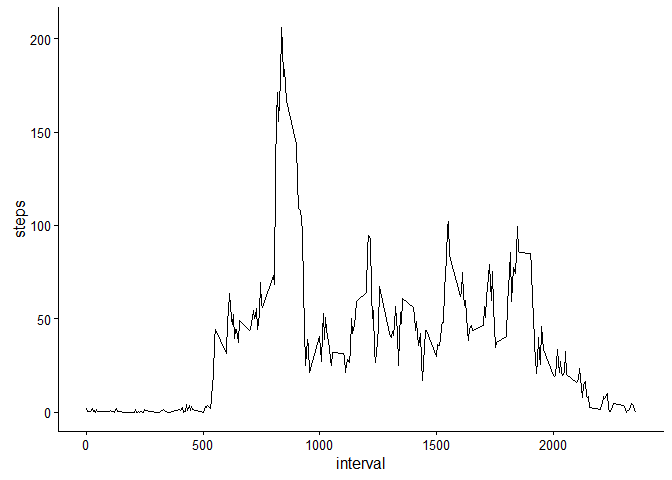
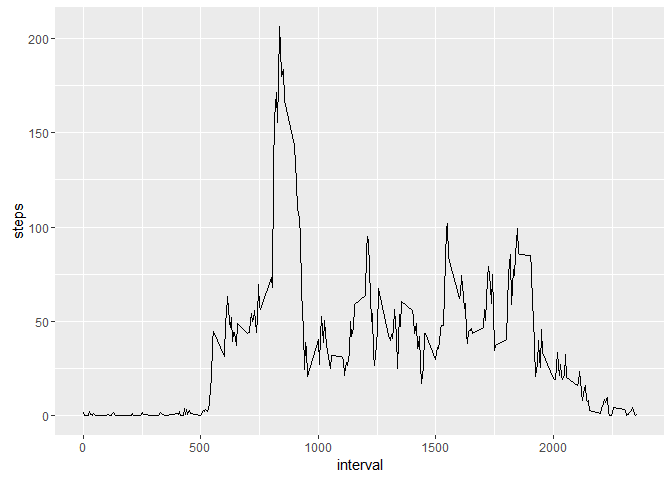
completed 5

diff --git a/PA1_template.html b/PA1_template.html
@@ -80,17 +80,8 @@ head(activity)</code></pre>
 </div>
 <div id="what-is-mean-total-number-of-steps-taken-per-day" class="section level2">
 <h2>What is mean total number of steps taken per day?</h2>
-<pre class="r"><code>library(dplyr)</code></pre>
-<pre><code>## Warning: package 'dplyr' was built under R version 3.2.3</code></pre>
-<pre><code>## 
-## Attaching package: 'dplyr'</code></pre>
-<pre><code>## The following objects are masked from 'package:stats':
-## 
-##     filter, lag</code></pre>
-<pre><code>## The following objects are masked from 'package:base':
-## 
-##     intersect, setdiff, setequal, union</code></pre>
-<pre class="r"><code>stepsperday &lt;- activity %&gt;% group_by(date) %&gt;% summarize(steps=sum(steps,na.rm = TRUE))
+<pre class="r"><code>library(dplyr)
+stepsperday &lt;- activity %&gt;% group_by(date) %&gt;% summarize(steps=sum(steps,na.rm = TRUE))
 head(stepsperday)</code></pre>
 <pre><code>## Source: local data frame [6 x 2]
 ## 
@@ -108,14 +99,14 @@ head(stepsperday)</code></pre>
 </div>
 <div id="what-is-the-average-daily-activity-pattern" class="section level2">
 <h2>What is the average daily activity pattern?</h2>
-<pre class="r"><code>library(ggplot2)</code></pre>
-<pre><code>## Warning: package 'ggplot2' was built under R version 3.2.3</code></pre>
-<pre class="r"><code>stepsperinterval &lt;- activity %&gt;% group_by(interval) %&gt;% summarise(steps = mean(steps, na.rm = TRUE))
+<pre class="r"><code>library(ggplot2)
+
+stepsperinterval &lt;- activity %&gt;% group_by(interval) %&gt;% summarise(steps = mean(steps, na.rm = TRUE))
 
 mostActiveInterval = stepsperinterval[which.max(stepsperinterval$steps), ]$interval
 
-ggplot(stepsperinterval, aes(x= interval, y=steps)) + geom_line() + theme_classic()</code></pre>
[1 lines of base64/hex data omitted]
+ggplot(stepsperinterval, aes(x= interval, y=steps)) + geom_line()</code></pre>
[1 lines of base64/hex data omitted]
 <p>On average 8 35 - 8 40 has most number of steps during the study period</p>
 </div>
 <div id="imputing-missing-values" class="section level2">
@@ -130,10 +121,19 @@ imputedactivity &lt;- activity %&gt;% mutate(steps = ifelse(is.na(steps), avgSte
 imputedstepsperday &lt;- imputedactivity %&gt;% group_by(date) %&gt;% summarize(steps=sum(steps,na.rm = TRUE))
 hist(imputedstepsperday$steps, main = &quot;Histogram of total steps per day after imputing&quot;, xlab = 'Steps/day')</code></pre>
[1 lines of base64/hex data omitted]
-<p>The mean total steps is 9,530.656 and median total steps is 10,439</p>
+<p>The mean total steps now is 9,530.656 and median total steps is 10,439. The histograms look similar and the means, medians and total steps have slightly increased.</p>
 </div>
 <div id="are-there-differences-in-activity-patterns-between-weekdays-and-weekends" class="section level2">
 <h2>Are there differences in activity patterns between weekdays and weekends?</h2>
+<pre class="r"><code>imputedactivity &lt;- imputedactivity %&gt;% mutate(day = factor(ifelse(weekdays(date) %in% c('Sunday','Saturday'), 'Weekend', 'Weekday')))
+
+imputedstepsperinterval &lt;- imputedactivity %&gt;% group_by(interval, day) %&gt;% summarise(steps = mean(steps, na.rm = TRUE))
+
+
+ggplot(imputedstepsperinterval, aes(x= interval, y=steps)) + geom_line() +
+  facet_grid(day~.)</code></pre>
[1 lines of base64/hex data omitted]
+<p>We can see during weekdays our subject starts early and rushes to work in the morning and is only modaretely active in the evening threafter whereas in the weekends, sleeps slightly more and is fairly active throughout the day.</p>
 </div>
 
 

diff --git a/PA1_template.md b/PA1_template.md
@@ -24,30 +24,6 @@ head(activity)
 
 ```r
 library(dplyr)
-```
-
-```
-## Warning: package 'dplyr' was built under R version 3.2.3
-```
-
-```
-## 
-## Attaching package: 'dplyr'
-```
-
-```
-## The following objects are masked from 'package:stats':
-## 
-##     filter, lag
-```
-
-```
-## The following objects are masked from 'package:base':
-## 
-##     intersect, setdiff, setequal, union
-```
-
-```r
 stepsperday <- activity %>% group_by(date) %>% summarize(steps=sum(steps,na.rm = TRUE))
 head(stepsperday)
 ```
@@ -78,18 +54,12 @@ The mean total steps is 9,354.23 and median total steps is 10,395
 
 ```r
 library(ggplot2)
-```
 
-```
-## Warning: package 'ggplot2' was built under R version 3.2.3
-```
-
-```r
 stepsperinterval <- activity %>% group_by(interval) %>% summarise(steps = mean(steps, na.rm = TRUE))
 
 mostActiveInterval = stepsperinterval[which.max(stepsperinterval$steps), ]$interval
 
-ggplot(stepsperinterval, aes(x= interval, y=steps)) + geom_line() + theme_classic()
+ggplot(stepsperinterval, aes(x= interval, y=steps)) + geom_line()
 ```
 
 ![](PA1_template_files/figure-html/daily activity pattern-1.png)
@@ -112,6 +82,20 @@ hist(imputedstepsperday$steps, main = "Histogram of total steps per day after im
 
 ![](PA1_template_files/figure-html/imupting values-1.png)
 
-The mean total steps is 9,530.656 and median total steps is 10,439
+The mean total steps now is 9,530.656 and median total steps is 10,439. The histograms look similar and the means, medians and total steps have slightly increased. 
 
 ## Are there differences in activity patterns between weekdays and weekends?
+
+```r
+imputedactivity <- imputedactivity %>% mutate(day = factor(ifelse(weekdays(date) %in% c('Sunday','Saturday'), 'Weekend', 'Weekday')))
+
+imputedstepsperinterval <- imputedactivity %>% group_by(interval, day) %>% summarise(steps = mean(steps, na.rm = TRUE))
+
+
+ggplot(imputedstepsperinterval, aes(x= interval, y=steps)) + geom_line() +
+  facet_grid(day~.)
+```
+
+![](PA1_template_files/figure-html/weekday weekends-1.png)
+
+We can see during weekdays our subject starts early and rushes to work in the morning and is only modaretely active in the evening threafter whereas in the weekends, sleeps slightly more and is fairly active throughout the day.
